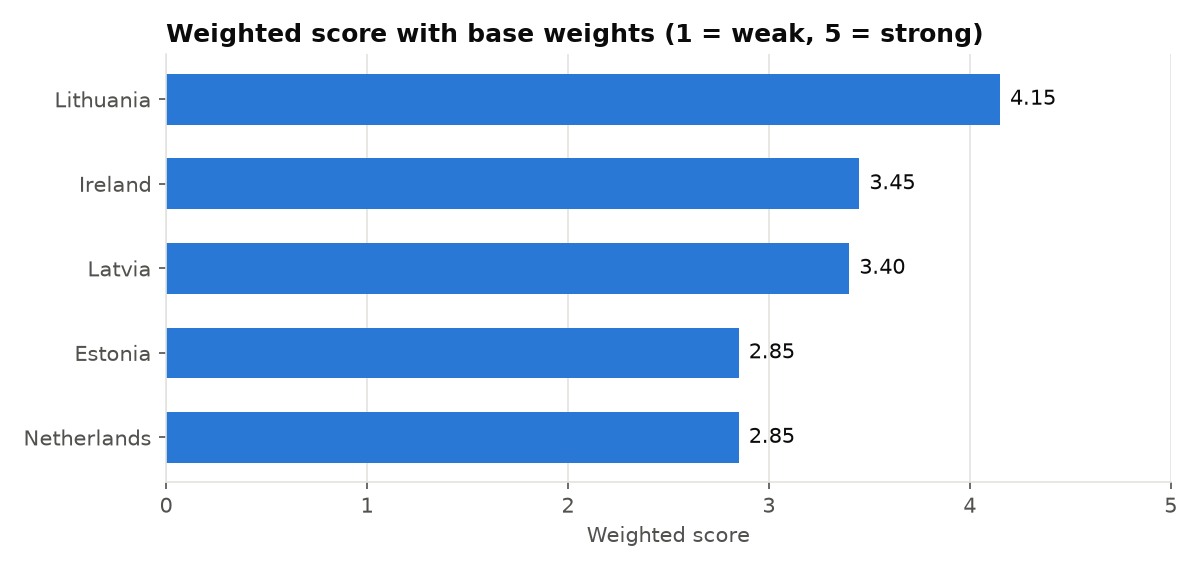
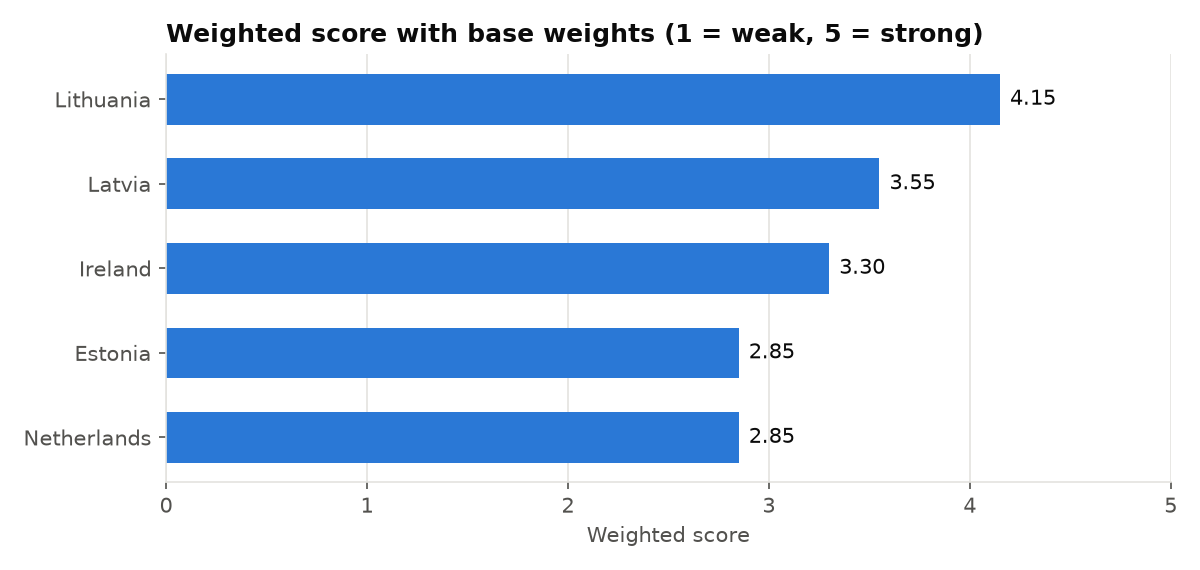
Correct facts from review and add a score-uncertainty check
- Latvia AML: add MONEYVAL 6th-round result (adopted June 2025, published
  19.02.2026, regular follow-up); score 2 -> 3
- Estonia: Inbank (licence 10.04.2015) also licensed under the SSM
- Lithuania tax: XVP-973 adoption not confirmed as of 15.11.2026
- Latvia tax: surcharge works as an advance credited against later
  dividend CIT; solidarity contribution only above 150% of 2018-2022 NII
- CRD EUR 5m / EUR 1m: cite Directive 2013/36/EU Art 12(1) and 12(4)
- Ireland licensing timeline 4 -> 3 for consistency with Lithuania
- robustness.score_uncertainty: +/-1 score noise, 5,000 draws, fixed seed
- Tied ranks shown as "4="; README numbers and charts regenerated

diff --git a/jurisdiction/report.py b/jurisdiction/report.py
@@ -47,6 +47,16 @@ def _pct_label(v: float) -> str:
     return f"{v:.0f}%"
 
 
+def rank_labels(ranked: list[tuple[str, float]]) -> dict[str, str]:
+    """Competition ranks with ties shown as '4=': equal totals (to 2 decimals) share a rank."""
+    labels, shown = {}, [round(v, 2) for _, v in ranked]
+    for i, (code, _) in enumerate(ranked):
+        first = shown.index(shown[i]) + 1
+        tied = shown.count(shown[i]) > 1
+        labels[code] = f"{first}=" if tied else str(first)
+    return labels
+
+
 def first_and_top2(shares: dict[str, list[float]]) -> tuple[dict[str, float], dict[str, float]]:
     return {c: r[0] for c, r in shares.items()}, {c: r[0] + r[1] for c, r in shares.items()}
 
@@ -117,25 +127,35 @@ def write_charts(ds: Dataset, shares: dict[str, list[float]], iterations: int, o
     return files
 
 
-def headline(ds: Dataset, mc: dict[str, float], thresholds: list[dict], iterations: int) -> str:
+def headline(ds: Dataset, mc: dict[str, float], thresholds: list[dict], iterations: int,
+             score_mc: dict[str, float] | None = None) -> str:
     names = _names(ds)
     leader = rank(ds)[0][0]
     top = thresholds[0]
     text = (f"With base weights, {names[leader]} ranks first; {names[leader]} stays first in "
-            f"{mc[leader]:.1%} of {iterations:,} random weight sets.")
+            f"{mc[leader]:.1%} of {iterations:,} random weight sets")
+    if score_mc is not None:
+        text += f" and in {score_mc[leader]:.1%} of {iterations:,} draws with every score moved by -1, 0 or +1"
+    text += "."
     if top["threshold"] is None:
         return text + " No single weight change overturns the leader."
     return text + (f" The decision is most sensitive to {top['label'].lower()}: moving its weight from "
                    f"{top['base_weight']:.0%} to {top['threshold']:.0%} puts {names[top['new_leader']]} first.")
 
 
-def write_markdown(ds: Dataset, mc: dict[str, float], top2: dict[str, float], thresholds: list[dict], iterations: int, path: Path) -> None:
+def write_markdown(ds: Dataset, mc: dict[str, float], top2: dict[str, float], thresholds: list[dict], iterations: int, path: Path,
+                   score_mc: dict[str, float] | None = None) -> None:
     names = _names(ds)
     ranked = rank(ds)
-    lines = [f"# {ds.title}", "", f"Data as of {ds.as_of}.", "", headline(ds, mc, thresholds, iterations), "",
-             "## Ranking", "", "| Rank | Country | Weighted score | First in random weight sets | First or second |", "|---|---|---|---|---|"]
-    for i, (code, total) in enumerate(ranked, 1):
-        lines.append(f"| {i} | {names[code]} | {total:.2f} | {mc[code]:.1%} | {top2[code]:.1%} |")
+    labels = rank_labels(ranked)
+    smc = score_mc or {}
+    lines = [f"# {ds.title}", "", f"Data as of {ds.as_of}.", "", headline(ds, mc, thresholds, iterations, score_mc), "",
+             "## Ranking", "",
+             "| Rank | Country | Weighted score | First in random weight sets | First or second | First with scores +/-1 |",
+             "|---|---|---|---|---|---|"]
+    for code, total in ranked:
+        s1 = f"{smc[code]:.1%}" if code in smc else "-"
+        lines.append(f"| {labels[code]} | {names[code]} | {total:.2f} | {mc[code]:.1%} | {top2[code]:.1%} | {s1} |")
     lines += ["", "## Weight needed to change the leader", "",
               "| Criterion | Base weight | Leader changes at | New leader |", "|---|---|---|---|"]
     for t in thresholds:
@@ -183,7 +203,8 @@ def _bars(rows: list[tuple[str, float, str, str]], xmax: float) -> str:
     return "".join(out)
 
 
-def write_html(ds: Dataset, mc: dict[str, float], top2: dict[str, float], thresholds: list[dict], iterations: int, path: Path) -> None:
+def write_html(ds: Dataset, mc: dict[str, float], top2: dict[str, float], thresholds: list[dict], iterations: int, path: Path,
+               score_mc: dict[str, float] | None = None) -> None:
     names = _names(ds)
     ranked = rank(ds)
     e = html.escape
@@ -191,7 +212,7 @@ def write_html(ds: Dataset, mc: dict[str, float], top2: dict[str, float], thresh
              f"<meta name='viewport' content='width=device-width,initial-scale=1'><style>{CSS}</style></head>",
              "<body><main class='viz-root'>",
              f"<h1>{e(ds.title)}</h1><p class='muted'>Data as of {e(ds.as_of)}. Scores 1 (weak) to 5 (strong).</p>",
-             f"<p class='lead'>{e(headline(ds, mc, thresholds, iterations))}</p>"]
+             f"<p class='lead'>{e(headline(ds, mc, thresholds, iterations, score_mc))}</p>"]
 
     parts.append("<h2>Weighted score, base weights</h2>")
     parts.append(_bars([(names[c], v, f"{v:.2f}", f"{names[c]}: {v:.2f} of 5") for c, v in ranked], 5))
@@ -202,6 +223,10 @@ def write_html(ds: Dataset, mc: dict[str, float], top2: dict[str, float], thresh
     parts.append(f"<h2>Ranks first or second in {iterations:,} random weight sets</h2>")
     parts.append(_bars([(names[c], top2[c], f"{top2[c]:.1%}", f"{names[c]} in the top two in {top2[c]:.1%} of weight sets")
                         for c, _ in ranked], 1))
+    if score_mc is not None:
+        parts.append(f"<h2>Ranks first in {iterations:,} draws with every score moved by -1, 0 or +1</h2>")
+        parts.append(_bars([(names[c], score_mc[c], f"{score_mc[c]:.1%}",
+                             f"{names[c]} first in {score_mc[c]:.1%} of score draws") for c, _ in ranked], 1))
 
     parts.append("<h2>Scores by criterion</h2><p class='muted'>Hover a cell for the rationale. "
                  "<span class='flag'>*</span> = needs check.</p><table><tr><th>Criterion</th><th>Weight</th>")

diff --git a/jurisdiction/robustness.py b/jurisdiction/robustness.py
@@ -1,8 +1,10 @@
 """How robust is the ranking to the choice of weights?
 
-Two views:
-- Monte Carlo: draw random weight sets from a Dirichlet distribution centred on the base weights
-  and count how often each country ranks first.
+Three views:
+- Monte Carlo on weights: draw random weight sets from a Dirichlet distribution centred on the base
+  weights and count how often each country ranks first.
+- Monte Carlo on scores: keep the base weights, move every score by a random -1, 0 or +1
+  (clipped to 1-5) and count how often each country ranks first.
 - Weight thresholds: move one criterion's weight (others scaled to keep the sum at 1) and find
   the nearest weight at which the base-case leader loses first place.
 """
@@ -32,6 +34,28 @@ def rank_shares(ds: Dataset, iterations: int = 5000, concentration: float = 50.0
 def monte_carlo(ds: Dataset, iterations: int = 5000, concentration: float = 50.0, seed: int = 42) -> dict[str, float]:
     """Share of random weight sets in which each country ranks first."""
     return {code: row[0] for code, row in rank_shares(ds, iterations, concentration, seed).items()}
+
+
+def score_uncertainty(ds: Dataset, iterations: int = 5000, seed: int = 42) -> dict[str, float]:
+    """Share of draws in which each country ranks first when every score is uncertain by one point.
+
+    Each draw adds an independent random integer from {-1, 0, +1} to every score, clips the result
+    to 1-5 and ranks with the base weights. This tests the scores, not the weights.
+    """
+    rng = np.random.default_rng(seed)
+    codes = [n.code for n in ds.countries]
+    keys = [c.key for c in ds.criteria]
+    base = np.array([[ds.score(k, code) for k in keys] for code in codes], dtype=float)
+    w = np.array([c.weight for c in ds.criteria])
+    w = w / w.sum()
+    wins = np.zeros(len(codes))
+    for _ in range(iterations):
+        noisy = np.clip(base + rng.integers(-1, 2, size=base.shape), 1, 5)
+        t = np.round(noisy @ w, 12)
+        # Ties are broken by country code, as in rank()
+        best = min(range(len(codes)), key=lambda i: (-t[i], codes[i]))
+        wins[best] += 1
+    return {code: wins[i] / iterations for i, code in enumerate(codes)}
 
 
 def _reweight(ds: Dataset, key: str, new_weight: float) -> dict[str, float]:

diff --git a/run.py b/run.py
@@ -10,8 +10,8 @@ import argparse
 import sys
 from pathlib import Path
 
-from jurisdiction.report import first_and_top2, headline, write_charts, write_html, write_markdown
-from jurisdiction.robustness import rank_shares, weight_thresholds
+from jurisdiction.report import first_and_top2, headline, rank_labels, write_charts, write_html, write_markdown
+from jurisdiction.robustness import rank_shares, score_uncertainty, weight_thresholds
 from jurisdiction.score import load, rank, validate
 
 
@@ -32,16 +32,19 @@ def main() -> None:
     shares = rank_shares(ds, args.iterations)
     mc, top2 = first_and_top2(shares)
     thresholds = weight_thresholds(ds)
+    score_mc = score_uncertainty(ds, args.iterations)
 
     write_charts(ds, shares, args.iterations, out)
-    write_markdown(ds, mc, top2, thresholds, args.iterations, out / "summary.md")
-    write_html(ds, mc, top2, thresholds, args.iterations, out / "report.html")
+    write_markdown(ds, mc, top2, thresholds, args.iterations, out / "summary.md", score_mc)
+    write_html(ds, mc, top2, thresholds, args.iterations, out / "report.html", score_mc)
 
     names = {n.code: n.name for n in ds.countries}
-    print(f"{'Rank':<6}{'Country':<14}{'Score':>7}{'First in MC':>13}{'Top two':>10}")
-    for i, (code, total) in enumerate(rank(ds), 1):
-        print(f"{i:<6}{names[code]:<14}{total:>7.2f}{mc[code]:>13.1%}{top2[code]:>10.1%}")
-    print("\n" + headline(ds, mc, thresholds, args.iterations))
+    ranked = rank(ds)
+    labels = rank_labels(ranked)
+    print(f"{'Rank':<6}{'Country':<14}{'Score':>7}{'First in MC':>13}{'Top two':>10}{'First, scores +/-1':>20}")
+    for code, total in ranked:
+        print(f"{labels[code]:<6}{names[code]:<14}{total:>7.2f}{mc[code]:>13.1%}{top2[code]:>10.1%}{score_mc[code]:>20.1%}")
+    print("\n" + headline(ds, mc, thresholds, args.iterations, score_mc))
     flagged = sum(s.needs_check for s in ds.scores.values())
     print(f"\n{flagged} of {len(ds.scores)} scores flagged needs_check")
     print(f"Outputs written to {out.resolve()}")

diff --git a/tests/test_jurisdiction.py b/tests/test_jurisdiction.py
@@ -4,7 +4,7 @@ from pathlib import Path
 
 import pytest
 
-from jurisdiction.robustness import monte_carlo, weight_thresholds
+from jurisdiction.robustness import monte_carlo, score_uncertainty, weight_thresholds
 from jurisdiction.score import load, rank, totals, validate
 
 ROOT = Path(__file__).resolve().parents[1]
@@ -63,6 +63,20 @@ def test_monte_carlo_is_reproducible(ds):
     assert monte_carlo(ds, iterations=300, seed=7) == monte_carlo(ds, iterations=300, seed=7)
 
 
+def test_score_uncertainty_shares_sum_and_reproduce(ds):
+    a = score_uncertainty(ds, iterations=300, seed=7)
+    assert sum(a.values()) == pytest.approx(1.0)
+    assert set(a) == {n.code for n in ds.countries}
+    assert a == score_uncertainty(ds, iterations=300, seed=7)
+
+
+def test_score_uncertainty_clear_leader_always_wins(ds):
+    """A leader scoring 5 everywhere against rivals scoring 1 stays first after any one-point noise."""
+    top = rank(ds)[0][0]
+    strong = replace(ds, scores={k: replace(s, value=5 if k[1] == top else 1) for k, s in ds.scores.items()})
+    assert score_uncertainty(strong, iterations=200)[top] == 1.0
+
+
 def test_validate_catches_bad_data(ds):
     key = next(iter(ds.scores))
     bad = replace(ds, scores={**ds.scores, key: replace(ds.scores[key], value=7, sources=(), needs_check=False)})
@@ -85,3 +99,10 @@ def test_tie_does_not_count_as_overtaking(ds):
     flat = {k: (replace(s, value=4) if k[0] == "market_access" else s) for k, s in ds.scores.items()}
     rows = {t["criterion"]: t for t in weight_thresholds(replace(ds, scores=flat), steps=100)}
     assert rows["market_access"]["threshold"] is None
+
+
+def test_tied_ranks_are_shown_with_equals_sign():
+    from jurisdiction.report import rank_labels
+
+    labels = rank_labels([("LT", 4.15), ("LV", 3.55), ("IE", 3.3), ("EE", 2.85), ("NL", 2.85)])
+    assert labels == {"LT": "1", "LV": "2", "IE": "3", "EE": "4=", "NL": "4="}

diff --git a/README.md b/README.md
@@ -2,27 +2,36 @@
 
 A transparent, source-backed tool that compares five euro-area countries as a home for a **new deposit-funded digital consumer lender** with a team based in Riga: Lithuania, Latvia, Ireland, the Netherlands and Estonia.
 
-Each country gets a score from 1 to 5 on ten weighted criteria. Each score comes with a written rationale, source links and a check date. The tool then asks how much the answer depends on the weights. It does this with 5,000 random weight sets and by finding the weight at which each criterion would change the winner.
+Each country gets a score from 1 to 5 on ten weighted criteria. Each score comes with a written rationale, source links and a check date. The tool then asks how much the answer depends on the weights and on the scores. It does this with 5,000 random weight sets, 5,000 draws in which every score moves by up to one point, and by finding the weight at which each criterion would change the winner.
 
 It is the companion to [bank-model](https://github.com/udrism-lang/bank-model), which sizes the capital the same bank would need, and to [neobank-benchmarks](https://github.com/udrism-lang/neobank-benchmarks), which compares it with real banks.
 
 ## Key findings
 
-**With base weights, Lithuania ranks first; Lithuania stays first in 99.7% of 5,000 random weight sets. The decision is most sensitive to tax and levies: moving its weight from 10% to 33% puts Ireland first.**
+**With base weights, Lithuania ranks first; Lithuania stays first in 99.9% of 5,000 random weight sets and in 93.6% of 5,000 draws with every score moved by -1, 0 or +1. The decision is most sensitive to tax and levies: moving its weight from 10% to 37% puts Ireland first.**
 
-| Rank | Country | Weighted score | First in random weight sets | First or second |
-|---|---|---|---|---|
-| 1 | Lithuania | 4.15 | 99.7% | 100% |
-| 2 | Ireland | 3.45 | 0.3% | 57.3% |
-| 3 | Latvia | 3.40 | 0% | 42.7% |
-| 4 | Estonia | 2.85 | 0% | 0% |
-| 5 | Netherlands | 2.85 | 0% | 0% |
+| Rank | Country | Weighted score | First in random weight sets | First or second | First with scores ±1 |
+|---|---|---|---|---|---|
+| 1 | Lithuania | 4.15 | 99.9% | 100% | 93.6% |
+| 2 | Latvia | 3.55 | 0% | 80.3% | 5.1% |
+| 3 | Ireland | 3.30 | 0.1% | 19.7% | 1.2% |
+| 4= | Estonia | 2.85 | 0% | 0% | 0.1% |
+| 4= | Netherlands | 2.85 | 0% | 0% | 0% |
 
-1. **Lithuania wins on what matters most for a first licence.** It has the deepest fintech licensing track record (Revolut Bank and about eight specialised banks), a EUR 1m specialised bank regime and English-language applications. Its costs are close to Riga's. Its weak spots are reputation (Lietuvos bankas fined Revolut Bank EUR 3.5m in 2025) and a 22% tax rate on bank profits.
-2. **Second place is a toss-up between Ireland and Latvia.** Ireland leads on tax (12.5%), talent and reputation. Latvia leads on cost, capital entry and proximity. Under random weights Ireland is in the top two 57% of the time and Latvia 43%.
-3. **The ranking only changes if a single criterion dominates.** Tax would need about a third of the total weight before Ireland overtakes Lithuania. AML reputation would need half, and proximity to Riga 46% before Latvia does. No realistic change to supervisor experience, capital entry, cost or timeline weights moves Lithuania from first.
-4. **Latvia's gap to Lithuania is mostly track record, and that can change.** Of the 0.75-point gap, 0.45 comes from supervisor fintech experience and licensing predictability. Latvia's specialised credit institution regime (EUR 1m, in force since 06.01.2026, explicitly open to digital-only banks) has no licences yet. If the first ones went as smoothly as Lithuania's, the gap would shrink to 0.30.
-5. **The capital saving of the EUR 1m regimes is smaller than it looks.** A digital bank needs EUR 20-50m to fund its losses until break-even (bank-model's base case needs about EUR 38m). The real value of a specialised regime is a faster, more proportionate supervisory dialogue, not the EUR 4m saved.
+The weight test and the score test answer different questions. The first asks whether the result depends on how the criteria are weighted. The second asks whether it depends on any single score being one point off.
+
+1. **Lithuania wins on what matters most for a first licence.** It has the deepest fintech licensing track record (Revolut Bank and about eight specialised banks), a EUR 1m specialised bank regime and English-language applications. Its costs are close to Riga's. Its weak spots are reputation (Lietuvos bankas fined Revolut Bank EUR 3.5m in 2025) and a 22% tax rate on bank profits. A bill to raise that to 27% (XVP-973) was registered in 2025; its adoption was not confirmed as of 15.11.2026.
+2. **Latvia is a clear second.** It leads Ireland on cost, capital entry and proximity. Its AML reputation now scores 3, the same as Lithuania: MONEYVAL's 2025 evaluation, the first under the FATF 2022 methodology, found its AML/CFT system effective overall. Ireland leads on tax (12.5%), talent and reputation, but its licensing takes about a year. Under random weights Latvia is in the top two 80% of the time and Ireland 20%.
+3. **The ranking only changes if a single criterion dominates.** Each threshold below is the weight one criterion would need, with the others scaled down, before a new country comes first:
+   - tax and levies at 37% puts Ireland first;
+   - proximity to Riga at 41% puts Latvia first;
+   - talent at 51% puts Ireland first;
+   - AML reputation at 54% puts Ireland first.
+
+   No weight on supervisor experience, licensing timeline, capital entry, cost, language or market access moves Lithuania from first.
+4. **Latvia's gap to Lithuania is mostly track record, and that can change.** Of the 0.60-point gap, 0.45 comes from supervisor fintech experience and licensing predictability. Latvia's specialised credit institution regime (EUR 1m, in force since 06.01.2026, explicitly open to digital-only banks) has no licences yet. If the first ones went as smoothly as Lithuania's, the gap would shrink to 0.15.
+5. **The capital saving of the EUR 1m regimes is smaller than it looks.** A digital bank needs EUR 20-50m to fund its losses until break-even (bank-model's base case needs about EUR 38m). The real value of a specialised regime is a faster, more proportionate supervisory dialogue, not the EUR 4m saved. Capital entry still carries 10% of the weight. Without that criterion Lithuania stays first (4.06, ahead of Ireland at 3.44 and Latvia at 3.39).
+6. **Market access does not affect the ranking.** All five are euro-area Banking Union members with the same EU passport, so all score 4. The criterion adds the same 0.20 points to every total.
 
 ![Ranking](docs/ranking.png)
 
@@ -39,7 +48,7 @@ It is the companion to [bank-model](https://github.com/udrism-lang/bank-model), 
 | Reputation and AML perception | 15% | Recent AML cases and MONEYVAL/FATF status, as seen by correspondent banks and partners |
 | Capital entry options | 10% | A specialised regime below the EUR 5m CRD minimum |
 | Talent availability | 10% | Banking, risk, AML and IT specialists |
-| Operating cost | 10% | Finance-sector labour cost (Eurostat) and prime office rent |
+| Operating cost | 10% | Finance-sector labour cost (Eurostat) and prime office rent. For the Netherlands, Eurostat's finance-sector figure is confidential, so the whole-economy figure is used |
 | Tax and levies | 10% | Corporate income tax on bank profits, bank surcharges and levies |
 | Language and process | 5% | Whether an application can be filed in English |
 | Proximity to team (Riga) | 5% | Distance from the team |
@@ -54,20 +63,22 @@ Score           weighted sum of 1-5 scores; ties broken by country code so the o
 Monte Carlo     5,000 weight sets drawn from a Dirichlet distribution centred on the base weights
                 (concentration 50: a 15% weight typically lands between ~10% and ~20%);
                 counts how often each country ranks first and in the top two
+Score check     5,000 draws with base weights; every score moves by a random -1, 0 or +1 (clipped to 1-5);
+                counts how often each country ranks first (fixed seed, so it is reproducible)
 Thresholds      for each criterion, move its weight from 0% to 100% (others scaled to keep the sum at 1)
                 and find the nearest weight at which another country scores strictly higher
 ```
 
 ## Evidence standard
 
-- Every score has a rationale, at least one source URL and a `last_checked` date (31.10.2026 for all of them).
+- Every score has a rationale, at least one source URL and a `last_checked` date: 31.10.2026, or 15.11.2026 for scores re-checked in a November review.
 - Primary sources come first: supervisors (Lietuvos bankas, Latvijas Banka, Central Bank of Ireland, DNB, Finantsinspektsioon), the ECB, law portals, Eurostat and national statistics. Big-4 tax summaries, law firms and reputable press come next.
 - **10 of 50 scores are flagged `needs_check: true`**. These are scores where the evidence came from secondary sources or a fact could not be confirmed. They are marked with * in the charts and listed in `output/summary.md`:
   - licensing time in Lithuania and Latvia (no official average published);
   - whether Latvijas Banka accepts applications in English;
   - whether Ireland and the Netherlands really have no reduced-capital regime;
-  - whether Lithuania adopted the proposed rise of the bank surcharge from 5% to 10%;
-  - how Latvia's solidarity contribution applies to a new bank;
+  - whether Lithuania adopted bill XVP-973, which would raise the bank surcharge from 5% to 10% (adoption not confirmed as of 15.11.2026);
+  - how Latvia's solidarity contribution, which uses a 2018-2022 base, applies to a new bank;
   - Ireland's AML record for banks, and talent-pool data for the Netherlands and Estonia.
 - The scores themselves are judgement. The point of the tool is to make that judgement explicit, sourced and testable, not to hide it.
 
@@ -98,7 +109,7 @@ Outputs in `output/`: `report.html` (a single file with the ranking, a score tab
 ```
 data/jurisdictions.yaml    countries, criteria, weights, scores, rationales and sources
 jurisdiction/score.py      load, validate, weighted score, deterministic ranking
-jurisdiction/robustness.py Monte Carlo on weights, weight thresholds
+jurisdiction/robustness.py Monte Carlo on weights and on scores, weight thresholds
 jurisdiction/report.py     charts, markdown summary, single-file HTML report
 run.py                     command-line entry point
 tests/                     data quality and method tests
@@ -111,7 +122,8 @@ docs/                      charts used in this README
 - every score is an integer from 1 to 5 and has a source or a `needs_check` flag, plus a check date;
 - every country is scored on every criterion;
 - the ranking is deterministic, and ties are broken by country code;
-- Monte Carlo shares sum to 100% and are reproducible with a seed;
+- Monte Carlo shares (weights and scores) sum to 100% and are reproducible with a seed;
+- tied ranks are shown as "4=";
 - the validator catches bad data;
 - each reported threshold really changes the leader, and a tie never counts as overtaking.
 
@@ -119,8 +131,10 @@ docs/                      charts used in this README
 
 - Five euro-area countries only. Adding a non-euro option (for example Poland or Sweden) would make `market_access` matter.
 - Scores are ordinal judgements. A next version could score some criteria directly from data (labour cost, tax rate, licensing days).
+- A licence needs real management substance in the licensing country. The ECB and national supervisors expect the management body and key functions to be present there. A Lithuanian licence therefore means a board and management presence in Vilnius, not only a team in Riga. The proximity score only partly captures this.
+- Operating cost for the Netherlands uses whole-economy labour cost, while the other four use finance-sector data. Eurostat does not publish the Dutch finance-sector figure. The Netherlands scores 1 either way, so the ranking does not change.
 - Licensing practice changes fast. In particular, re-check Latvia's new specialised regime once the first licences are granted.
 
 ---
 
-Built with AI-assisted development (Claude): research agents collected the evidence, and every score, rationale and source was reviewed and recorded in `data/jurisdictions.yaml`.
+Built with AI-assisted development (Claude). Research agents collected the evidence. Each score is recorded in `data/jurisdictions.yaml` with its rationale, sources and check date. A review in November 2026 corrected several facts. Scores flagged `needs_check` are not fully confirmed.
